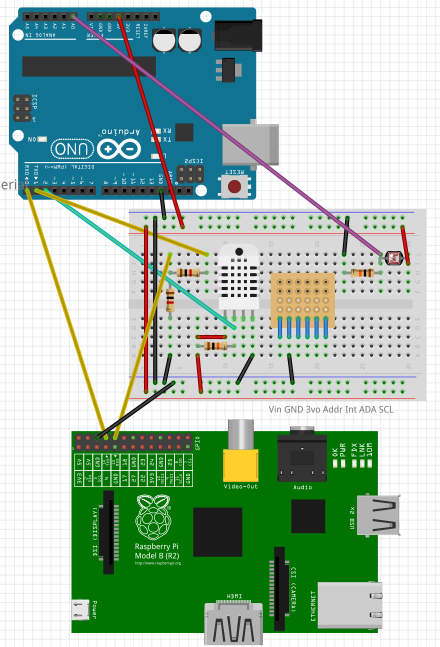
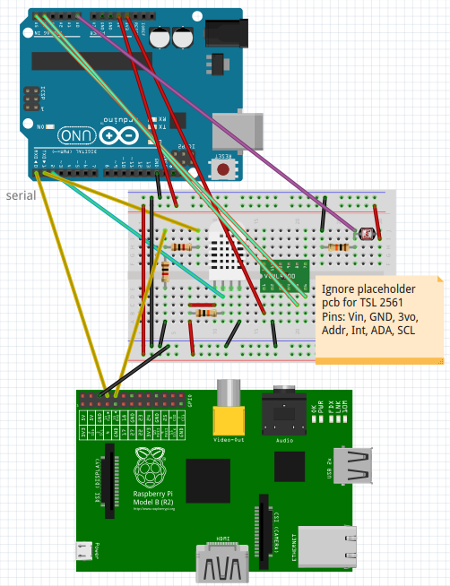
adds placeholder for TSL 2561 until draw my own image

diff --git a/readme.md b/readme.md
@@ -34,15 +34,30 @@ The following are received bare-root, wrapped in sphagnum moss.
 * [CdS photoresistor](https://www.adafruit.com/products/161) ([datasheet 1](https://learn.adafruit.com/system/assets/assets/000/010/127/original/PDV-P8001.pdf), [datasheet 2](https://learn.adafruit.com/system/assets/assets/000/010/128/original/DTS_A9950_A7060_B9060.pdf)) - ~5-200KΩ
 * [Infragram Webcam](https://www.adafruit.com/products/1722) - visible and infrared
 
+#Etc
+* [YSD-439AB4B-35 7-Segment](https://www.sparkfun.com/products/9481) ([datasheet](http://www.sparkfun.com/datasheets/Components/LED/7-Segment/YSD-439AB4B-35.pdf))
 #Arduino
 Flash [sunduino.ino](https://github.com/digitalvapor/terrarium/blob/master/sunduino/sunduino.ino) to your Arduino. Unplug from the rPi while doing so.
 
 Serial output.
 
 ```
-luminosity,humidity,temperature,heatindex
-739.00,50.60,23.50,74.30,77.37
-738.00,50.60,23.60,74.48,77.43
+luminosity,ir,full,visible,lux,humidity,temperature,heatindex
+917.00,275,882,607.00,468.00,54.20,23.70,74.66,77.41
+917.00,275,883,608.00,469.00,53.90,23.80,74.84,77.50
+917.00,276,885,609.00,470.00,53.80,23.80,74.84,77.50
+918.00,276,885,609.00,470.00,53.70,23.80,74.84,77.50
+917.00,276,886,610.00,471.00,53.60,23.80,74.84,77.51
+912.00,94,266,172.00,124.00,53.50,23.80,74.84,77.51
+912.00,92,260,168.00,121.00,53.50,23.90,75.02,77.59
+912.00,93,263,170.00,122.00,53.50,23.90,75.02,77.59
+911.00,109,307,198.00,142.00,53.50,23.90,75.02,77.59
+910.00,128,377,249.00,184.00,53.60,23.90,75.02,77.59
+910.00,153,457,304.00,226.00,53.70,23.90,75.02,77.58
+910.00,161,483,322.00,240.00,53.60,24.00,75.20,77.67
+918.00,275,882,607.00,468.00,53.50,24.00,75.20,77.67
+917.00,272,873,601.00,464.00,53.40,24.00,75.20,77.67
+917.00,271,870,599.00,462.00,53.30,24.00,75.20,77.67
 ```
 
 #Raspberry Pi
